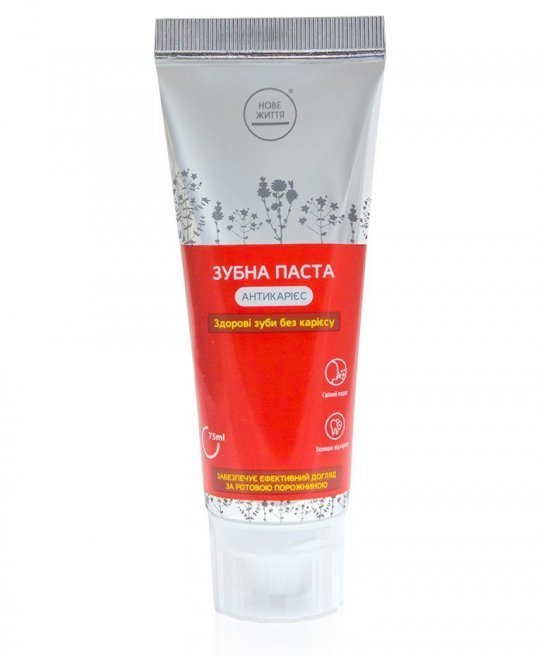
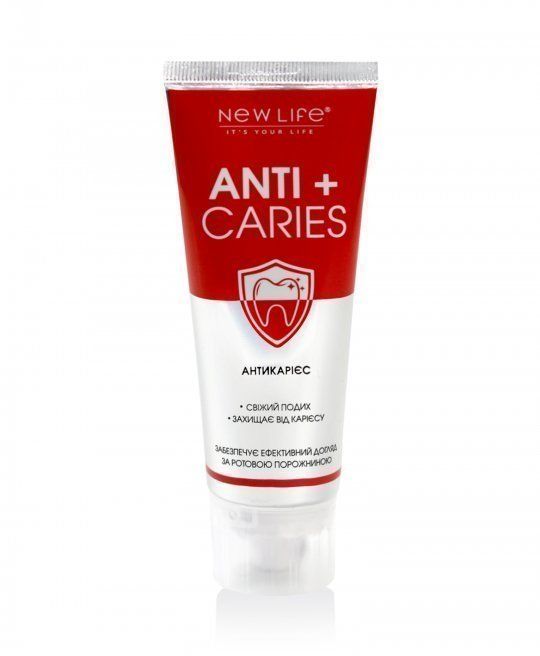
news

diff --git a/src/data.js b/src/data.js
@@ -2928,7 +2928,7 @@ export const data = [
           // {
           //   name: 'ЗУБНАЯ ПАСТА АНТИКАРИЕС',
           //   img: 'ЗУБНАЯ ПАСТА АНТИКАРИЕС',
-          //   price: 85,
+          //   price: 119,
           //   volume: 75,
           //   description: `разработана для профилактики кариеса, пародонтоза, гингивита и стоматита.
           //   Активные компоненты пасты оказывают укрепляющее действие на зубную эмаль, устраняют
@@ -3843,6 +3843,186 @@ export const data = [
             structure: `витамин D3/vitamin D3 2000 (IU)соевое масло/soybean oil, капсула/softgel 
             capsule (желатин/gelatin, глицерин/glycerin, вода/pure water).`,
             recommendations: 'по 1 капсуле 2 раза в день во время еды',
+          },
+          {
+            name: 'ИММУНОФЛОР IMMUNOFLOR 20 ТАБЛЕТОК В БЛИСТЕРАХ ',
+            img: 'ИММУНОФЛОР IMMUNOFLOR 20 ТАБЛЕТОК В БЛИСТЕРАХ',
+            price: 94,
+            volume: '20 таблеток по 500 mg',
+            description: `для повышения иммунитета при вирусных и бактериальных инфекциях. 
+            Оказывает общеукрепляющее действие, повышает работоспособность, помогает организму 
+            быстро восстановиться после заболеваний.`,
+            structure: `витамин С/vitamin С, кошачьего когтя экстракт/uncariae extract, граната 
+            экстракт/pomegranate extract, эхинацеи экстракт/echinaceae extract, асаи 
+            экстракт/euterpe oleracea extract`,
+            recommendations: 'по 1 таблетке 2 раза в день за 10 минут до еды',
+          },
+          {
+            name: 'ИММУНОФЛОР IMMUNOFLOR 60 ТАБЛЕТОК В БАНОЧКЕ ',
+            img: 'ИММУНОФЛОР IMMUNOFLOR 60 ТАБЛЕТОК В БАНОЧКЕ',
+            price: 225,
+            volume: '60 таблеток по 500 mg',
+            description: `для повышения иммунитета при вирусных и бактериальных инфекциях. 
+            Оказывает общеукрепляющее действие, повышает работоспособность, помогает организму 
+            быстро восстановиться после заболеваний.`,
+            structure: `витамин С/vitamin С, кошачьего когтя экстракт/uncariae extract, граната 
+            экстракт/pomegranate extract, эхинацеи экстракт/echinaceae extract, асаи 
+            экстракт/euterpe oleracea extract`,
+            recommendations: 'по 1 таблетке 2 раза в день за 10 минут до еды',
+          },
+          {
+            name: 'ФОРМУЛА ОБНОВЛЕНИЯ (ЧИСТОФЛОР) 20 ТАБЛЕТОК В БЛИСТЕРАХ ',
+            img: 'ФОРМУЛА ОБНОВЛЕНИЯ (ЧИСТОФЛОР) 20 ТАБЛЕТОК В БЛИСТЕРАХ',
+            price: 98,
+            volume: '20 таблеток по 500 mg',
+            description: `для улучшения пищеварения, как антипаразитарное средство. Создает 
+            неблагоприятные условия для размножения паразитов, очищает кишечник`,
+            structure: `гвоздики экстракт/caryophylli extract, полыни экстракт/absinthii extract, 
+            оливы листа экстракт/olive folium extract, грейпфрута косточек экстракт/citrus paradisi 
+            fructus extract, зверобоя экстракт/hyperici extract`,
+            recommendations: 'по 1 таблетке 2 раза в день за 10 минут до еды',
+          },
+          {
+            name: 'ФОРМУЛА ОБНОВЛЕНИЯ (ЧИСТОФЛОР) 60 ТАБЛЕТОК В БАНОЧКЕ ',
+            img: 'ФОРМУЛА ОБНОВЛЕНИЯ (ЧИСТОФЛОР) 60 ТАБЛЕТОК В БАНОЧКЕ',
+            price: 235,
+            volume: '60 таблеток по 500 mg',
+            description: `для улучшения пищеварения, как антипаразитарное средство. Создает 
+            неблагоприятные условия для размножения паразитов, очищает кишечник`,
+            structure: `гвоздики экстракт/caryophylli extract, полыни экстракт/absinthii extract, 
+            оливы листа экстракт/olive folium extract, грейпфрута косточек экстракт/citrus paradisi 
+            fructus extract, зверобоя экстракт/hyperici extract`,
+            recommendations: 'по 1 таблетке 2 раза в день за 10 минут до еды',
+          },
+          {
+            name: 'АПИТОН ФИТО С ХВОЕЙ 20 ТАБЛЕТОК В БЛИСТЕРАХ ',
+            img: 'АПИТОН ФИТО С ХВОЕЙ 20 ТАБЛЕТОК В БЛИСТЕРАХ ',
+            price: 80,
+            volume: '20 таблеток по 500 mg',
+            description: `для уменьшения активности воспалительных процессов, улучшения 
+            кровообращения, укрепления сосудов, повышения иммунитета, при гиповитаминозе, 
+            анемии. Добавка повышает общий тонус, улучшает работоспособность, заряжает энергией 
+            и ускоряет восстановление организма в период реабилитации`,
+            structure: `пыльца цветочная / pollinis, хвои сосны экстракт / pinus acus extract, 
+            черного тмина экстракт / nigella sativa extract`,
+            recommendations: 'по 1 таблетке 2 раза в день за 10 минут до еды',
+          },
+          {
+            name: 'АПИТОН ФИТО С ХВОЕЙ 60 ТАБЛЕТОК В БАНОЧКЕ  ',
+            img: 'АПИТОН ФИТО С ХВОЕЙ 60 ТАБЛЕТОК В БАНОЧКЕ ',
+            price: 192,
+            volume: '60 таблеток по 500 mg',
+            description: `для уменьшения активности воспалительных процессов, улучшения 
+            кровообращения, укрепления сосудов, повышения иммунитета, при гиповитаминозе, 
+            анемии. Добавка повышает общий тонус, улучшает работоспособность, заряжает энергией 
+            и ускоряет восстановление организма в период реабилитации`,
+            structure: `пыльца цветочная / pollinis, хвои сосны экстракт / pinus acus extract, 
+            черного тмина экстракт / nigella sativa extract`,
+            recommendations: 'по 1 таблетке 2 раза в день за 10 минут до еды',
+          },
+          {
+            name: 'РЕЦЕПТ ТИБЕТСКИХ ГОР 60 ТАБЛЕТОК В БАНОЧКЕ       ',
+            img: 'РЕЦЕПТ ТИБЕТСКИХ ГОР 60 ТАБЛЕТОК В БАНОЧКЕ ',
+            price: 243,
+            volume: '60 таблеток по 500 mg',
+            description: `для повышения иммунной защиты. Обладает противоопухолевым свойством, 
+            снижает уровень сахара и холестерина в крови, снимает симптомы хронической усталости. 
+            Способствует нормализации артериального давления, а также уровня сахара в крови. 
+            Защищает организм от развития злокачественных опухолей, от гепатита и многих других 
+            опасных заболеваний`,
+            structure: `майтаке экстракт / maitake extract, шиитаке экстракт / shiitake extract, 
+            рейши экстракт / reishi extract, лофанта тибетского экстракт / agastache rugosa extract`,
+            recommendations: 'по 1 таблетке 2 раза в день за 10 минут до еды',
+          },
+          {
+            name: 'РЕЦЕПТ ТИБЕТСКИХ ГОР 20 ТАБЛЕТОК В БЛИСТЕРАХ            ',
+            img: 'РЕЦЕПТ ТИБЕТСКИХ ГОР 20 ТАБЛЕТОК В БЛИСТЕРАХ ',
+            price: 102,
+            volume: '20 таблеток по 500 mg',
+            description: `для повышения иммунной защиты. Обладает противоопухолевым свойством, 
+            снижает уровень сахара и холестерина в крови, снимает симптомы хронической усталости. 
+            Способствует нормализации артериального давления, а также уровня сахара в крови. 
+            Защищает организм от развития злокачественных опухолей, от гепатита и многих других 
+            опасных заболеваний`,
+            structure: `майтаке экстракт / maitake extract, шиитаке экстракт / shiitake extract, 
+            рейши экстракт / reishi extract, лофанта тибетского экстракт / agastache rugosa extract`,
+            recommendations: 'по 1 таблетке 2 раза в день за 10 минут до еды',
+          },
+          {
+            name: 'ГЕПАТОФЛОР HEPATOFLOR 20 ТАБЛЕТОК В БЛИСТЕРАХ            ',
+            img: 'ГЕПАТОФЛОР HEPATOFLOR 20 ТАБЛЕТОК В БЛИСТЕРАХ ',
+            price: 120,
+            volume: '20 таблеток по 500 mg',
+            description: `для нормализации функционирования печени. Стимулирует регенерационные 
+            процессы в тканях печени. Предупреждает формирование желчных камней. Улучшает 
+            детоксикационную функцию, желчеотделение и пищеварение`,
+            structure: `холин / choline, метионин / methionine, расторопши экстракт / 
+            sylibi mariani extract, альфа липоевая кислота / alpha lipoic acid, артишока 
+            экстракт / cynarae scomuli extract, цикория экстракт / cichorium extract`,
+            recommendations: 'по 1 таблетке 2 раза в день за 10 минут до еды',
+          },
+          {
+            name: 'ГЕПАТОФЛОР HEPATOFLOR 60 ТАБЛЕТОК В БАНОЧКЕ',
+            img: 'ГЕПАТОФЛОР HEPATOFLOR 60 ТАБЛЕТОК В БАНОЧКЕ',
+            price: 300,
+            volume: '60 таблеток по 500 mg',
+            description: `для нормализации функционирования печени. Стимулирует регенерационные 
+            процессы в тканях печени. Предупреждает формирование желчных камней. Улучшает 
+            детоксикационную функцию, желчеотделение и пищеварение`,
+            structure: `холин / choline, метионин / methionine, расторопши экстракт / 
+            sylibi mariani extract, альфа липоевая кислота / alpha lipoic acid, артишока 
+            экстракт / cynarae scomuli extract, цикория экстракт / cichorium extract`,
+            recommendations: 'по 1 таблетке 2 раза в день за 10 минут до еды',
+          },
+          {
+            name: 'КАРДИОФЛОР CARDIOFLOR 20 ТАБЛЕТОК В БЛИСТЕРАХ',
+            img: 'КАРДИОФЛОР CARDIOFLOR 20 ТАБЛЕТОК В БЛИСТЕРАХ',
+            price: 75,
+            volume: '20 таблеток по 500 mg',
+            description: `для нормализации функционирования органов сердечно-сосудистой системы. 
+            Способствует улучшению кровообращения и питанию клеток сердца, нормализует давление`,
+            structure: `цитрат магния / magnesium citrate, цитрат калия / potassium citrate, 
+            боярышника экстракт / crataegi extract, валерианы экстракт / valerianae extract, 
+            чеснока экстракт / allium sativum extract.`,
+            recommendations: 'по 1 таблетке 2 раза в день за 10 минут до еды',
+          },
+          {
+            name: 'КАРДИОФЛОР CARDIOFLOR 60 ТАБЛЕТОК В БАНОЧКЕ',
+            img: 'КАРДИОФЛОР CARDIOFLOR 60 ТАБЛЕТОК В БАНОЧКЕ',
+            price: 180,
+            volume: '60 таблеток по 500 mg',
+            description: `для нормализации функционирования органов сердечно-сосудистой системы. 
+            Способствует улучшению кровообращения и питанию клеток сердца, нормализует давление`,
+            structure: `цитрат магния / magnesium citrate, цитрат калия / potassium citrate, 
+            боярышника экстракт / crataegi extract, валерианы экстракт / valerianae extract, 
+            чеснока экстракт / allium sativum extract.`,
+            recommendations: 'по 1 таблетке 2 раза в день за 10 минут до еды',
+          },
+          {
+            name: 'ПАНКРЕОФЛОР PANCREOFLOR 60 ТАБЛЕТОК В БАНОЧКЕ',
+            img: 'ПАНКРЕОФЛОР PANCREOFLOR 60 ТАБЛЕТОК В БАНОЧКЕ',
+            price: 360,
+            volume: '60 таблеток по 500 mg',
+            description: `для улучшения работы поджелудочной железы. Нормализует обмен веществ, 
+            улучшает работу пищеварительной системы и усиливает отток желчи. Предупреждает 
+            отложение солей в почках и суставах`,
+            structure: `календулы экстракт/calendulae extract, бессмертника экстракт/helichrysi 
+            extract, альфа-липоевая кислота/alpha-lipoic acid, папаин/papain, бромелайн/bromelain, 
+            полыни экстракт/absinthii extract`,
+            recommendations: 'по 1 таблетке 2 раза в день за 10 минут до еды',
+          },
+          {
+            name: 'ПАНКРЕОФЛОР PANCREOFLOR 20 ТАБЛЕТОК В БЛИСТЕРАХ',
+            img: 'ПАНКРЕОФЛОР PANCREOFLOR 20 ТАБЛЕТОК В БЛИСТЕРАХ',
+            price: 150,
+            volume: '20 таблеток по 500 mg',
+            description: `для улучшения работы поджелудочной железы. Нормализует обмен веществ, 
+            улучшает работу пищеварительной системы и усиливает отток желчи. Предупреждает 
+            отложение солей в почках и суставах`,
+            structure: `календулы экстракт/calendulae extract, бессмертника экстракт/helichrysi 
+            extract, альфа-липоевая кислота/alpha-lipoic acid, папаин/papain, бромелайн/bromelain, 
+            полыни экстракт/absinthii extract`,
+            recommendations: 'по 1 таблетке 2 раза в день за 10 минут до еды',
           },
           {
             name: 'АПИТОН ФИТО С ХВОЕЙ',

diff --git a/src/Pages/NewsPage/index.jsx b/src/Pages/NewsPage/index.jsx
@@ -45,6 +45,18 @@ const NewsPage = () => {
         <p>НОВИНКА! В ПРОДАЖУ ПОСТУПИЛ КАРДИОФЛОР - НОВАЯ УСИЛЕННАЯ ФОРМУЛА</p>
         <p>НОВИНКА! В ПРОДАЖУ ПОСТУПИЛ ГЕПАТОФЛОР - НОВАЯ УСИЛЕННАЯ ФОРМУЛА</p>
         <p>НОВИНКА! В ПРОДАЖУ ПОСТУПИЛ РЕЦЕПТ ТИБЕТСКИХ ГОР</p>
+        <p>
+          НОВИНКА! В ПРОДАЖУ ПРОСТУПИЛ АПИТОН ФИТО С ХВОЕЙ - НОВАЯ УСИЛЕННАЯ
+          ФОРМУЛА
+        </p>
+        <p>
+          НОВИНКА! В ПРОДАЖУ ПОСТУПИЛИ ТАБЛЕТКИ ФОРМУЛА ОБНОВЛЕНИЯ (ЧИСТОФЛОР)
+        </p>
+        <p>
+          НОВИНКА! В ПРОДАЖУ ПОСТУПИЛИ ТАБЛЕТКИ ИММУНОФЛОР - НОВАЯ УСИЛЕННАЯ
+          ФОРМУЛА
+        </p>
+        <p>ПОСТУПИЛА В ПРОДАЖУ ЗУБНАЯ ПАСТА ANTICARIES В НОВОМ ДИЗАЙНЕ</p>
       </div>
     </Container>
   )
